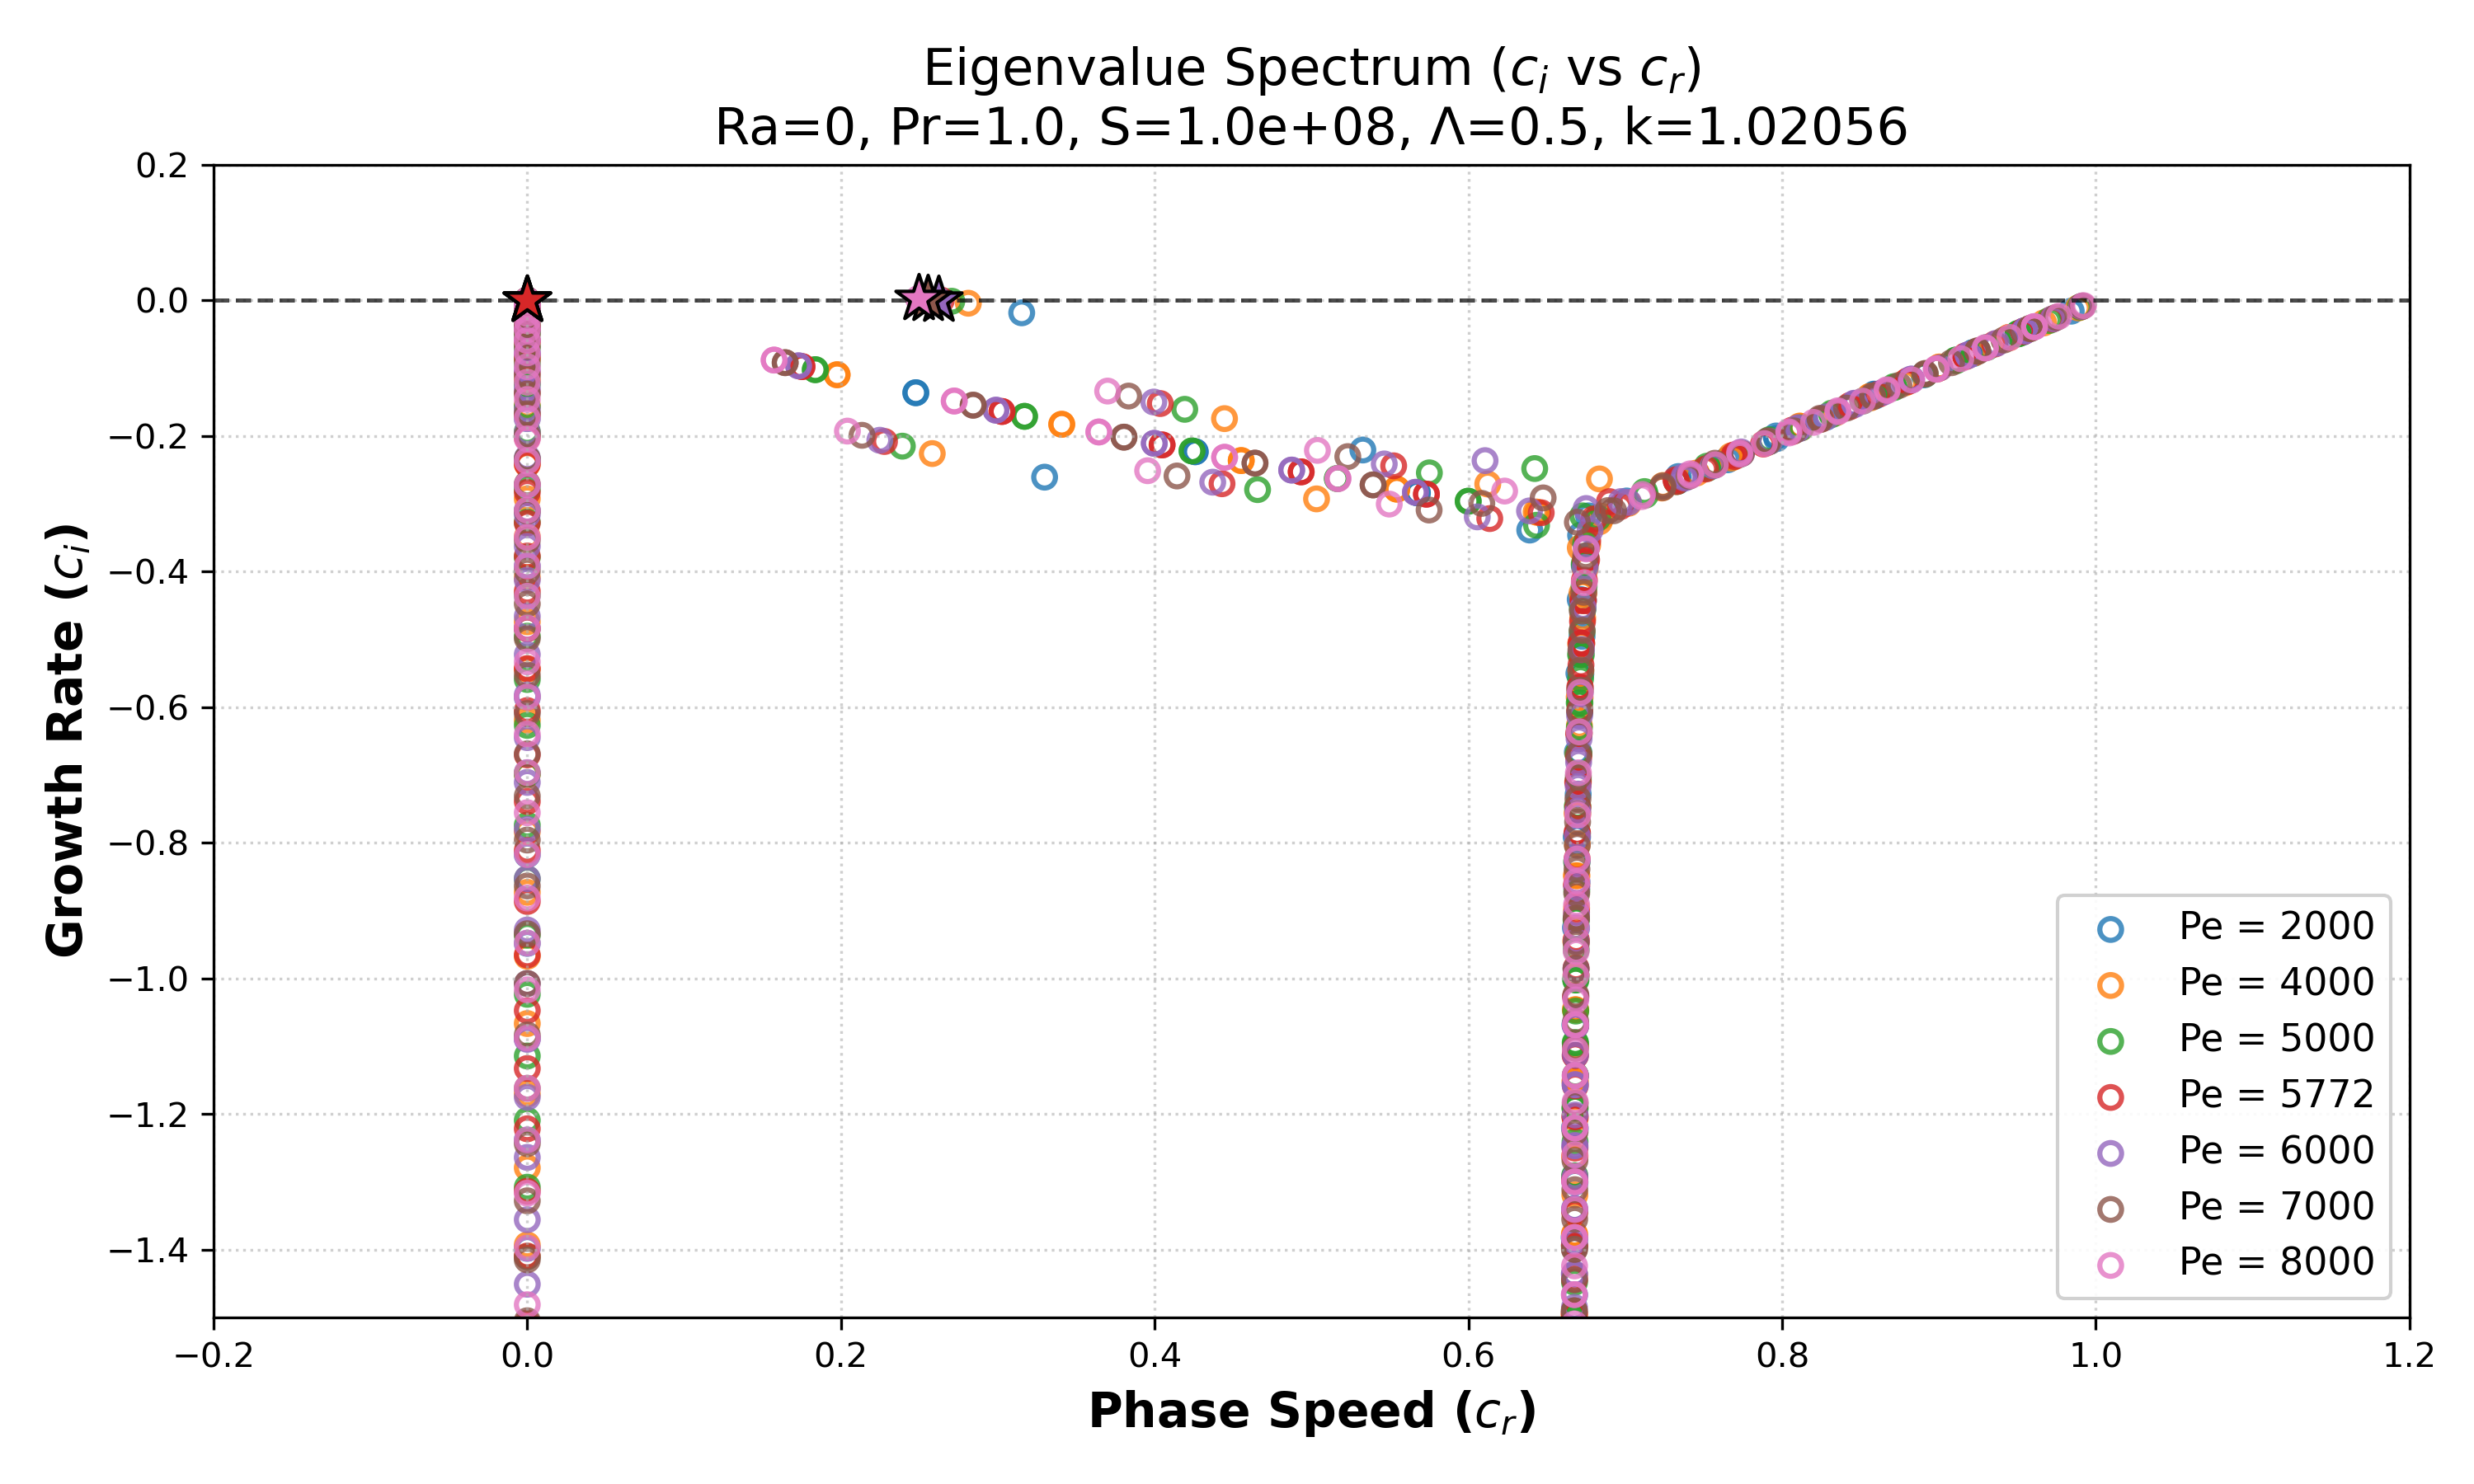
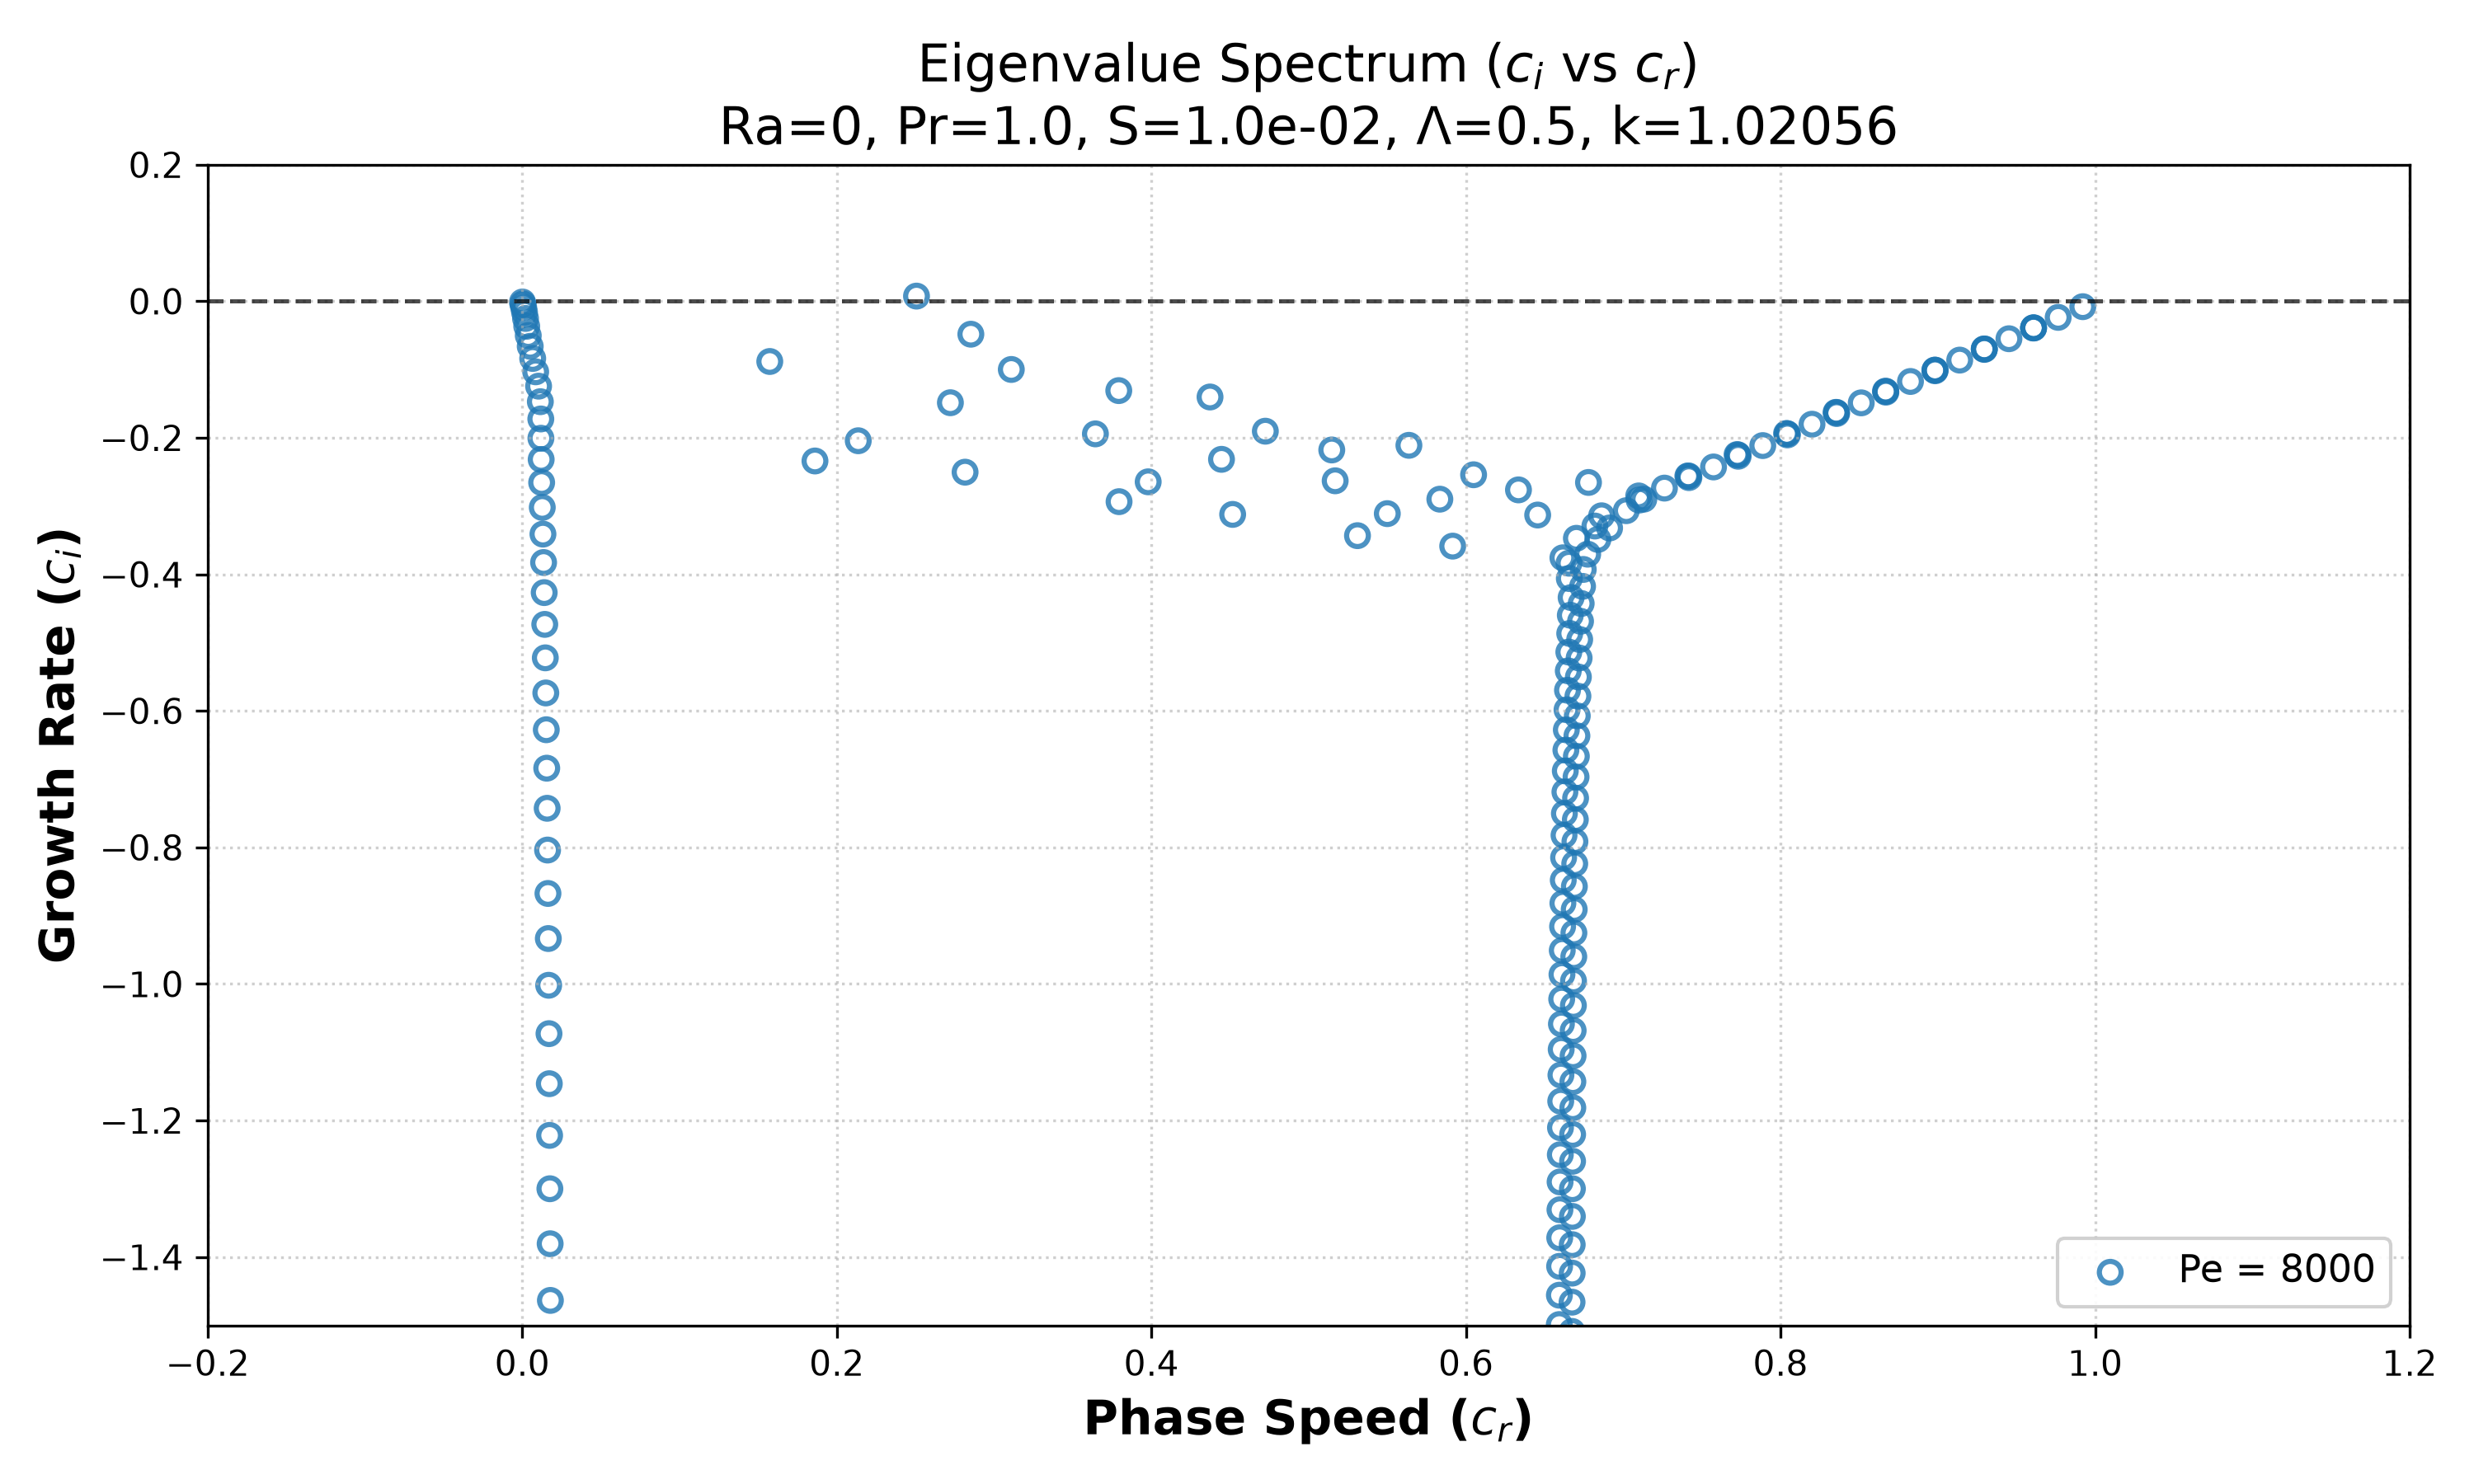
#

Changed region(s): [[0.0, 0.0933, 0.992, 0.9644], [0.279, 0.0311, 0.775, 0.1244]]

diff --git a/Topaldodi/pf/ice.py b/Topaldodi/pf/ice.py
@@ -11,7 +11,7 @@ logger = logging.getLogger(__name__)
 # ═══════════════════════════════════════════════════════════
 Ra   = 0                
 Pr   = 1.0              
-S    = 100000000     
+S    = 0.01   
 Lam  = 0.5              
 k    = 1.02056          # Classical critical half-width wavenumber
 m    = 0.0              
@@ -194,7 +194,7 @@ def plot_eigenvalues(spectra_dict, title_params=""):
 
 if __name__ == "__main__":
     # Sweeping right around the classical critical value of 5772
-    Pe_list = [2000,4000,5000,5772,6000,7000,8000]
+    Pe_list = [8000]
     
     spectra = {}
     for Pe in Pe_list: